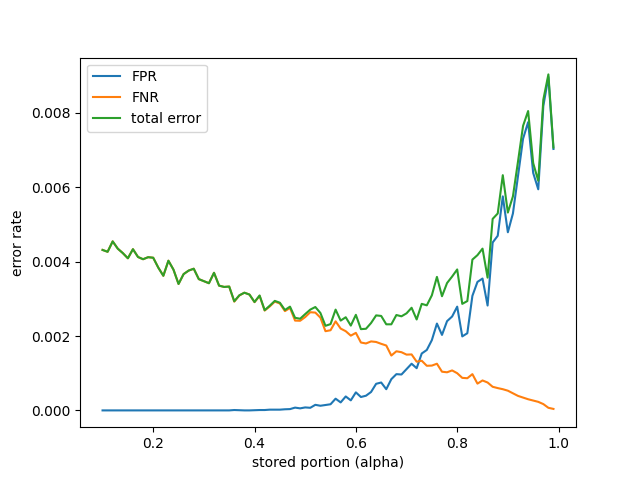
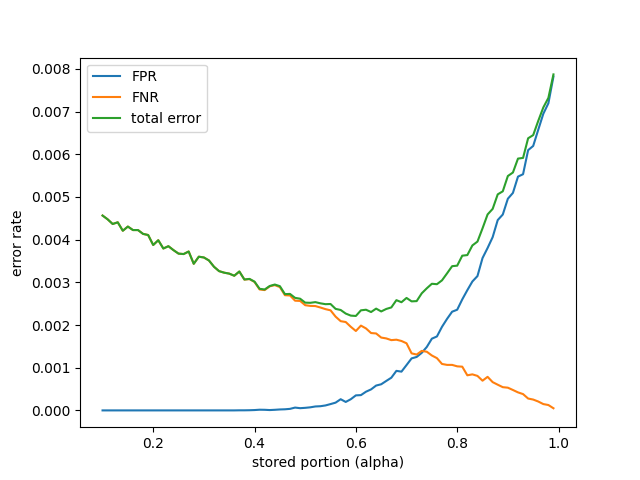
Initialized retouched filter and test_m

diff --git a/Partial filter.py b/Partial filter.py
@@ -6,10 +6,9 @@ import matplotlib.pyplot as plt
 
 import numpy as np
 
+
 # Generating hash functions via index.
 # See https://stackoverflow.com/questions/2255604/hash-functions-family-generator-in-python#:~:text=The%20universal%20hash%20family%20is,drawn%20randomly%20from%20set%20H%20.
-_memomask = {}
-
 
 def universal_hashing():
     def rand_prime():
@@ -17,17 +16,22 @@ def universal_hashing():
             p = random.randrange(2 ** 32, 2 ** 34, 2)
             if all(p % n != 0 for n in range(3, int((p ** 0.5) + 1), 2)):
                 return p
+
     m = 2 ** 32 - 1
     p = rand_prime()
     a = random.randint(0, p)
     if a % 2 == 0:
         a += 1
     b = random.randint(0, p)
+
     def h(x):
         return ((a * x + b) % p) % m
+
     return h
 
+
 # Doesn't work very well
+# _memomask = {}
 # def hash_function(n: int) -> Callable:
 #     mask = _memomask.get(n)
 #     if mask is None:
@@ -42,19 +46,32 @@ def universal_hashing():
 
 class FilterInterface():
     def __init__(self):
-        self.a = np.zeros(0)
-        self.n = 0
+        """
+        --- variables ---
+        n: number of elements actually stored.
+        m: size of the array
+        k: number of hash functions. Default is to calculate optimal k.
+        hashes: list of hash functions.
+        """
+        self.a = self.n = self.m = self.k = self.hashes = None
 
-    def arraylen(self):
-        return self.a.shape[0]
+    def optimal_k(self):
+        """
+        --- Input ---
+        self: has well-defined self.m and self.n values.
 
-    def setsize(self):
-        return self.n
-
-    def optimal_k(self, m, n):
-        if n == 0:
+        --- Output ---
+        k: optimal k value given by int(np.log(2) * self.m / self.n)
+        """
+        if self.n == 0:
             return 0
-        return int(np.log(2) * m / n)
+        return int(np.log(2) * self.m / self.n)
+
+    def __contains__(self, item: int) -> bool:
+        for hash in self.hashes:
+            if self.a[hash(item) % self.m] == 0:
+                return False
+        return True
 
 
 # Create a regular BF.
@@ -68,21 +85,17 @@ class BloomFilter(FilterInterface):
         """
         super().__init__()
         self.n = len(S)
+        self.m = m
         if k is None:
-            k = self.optimal_k(m, self.n)
+            self.k = self.optimal_k()
+        else:
+            self.k = k
 
         self.a = np.zeros(m)
-        hash_inds = np.random.randint(1, 1000, size=k, dtype=np.int32)
-        self.hashes = [universal_hashing() for i in hash_inds]
+        self.hashes = [universal_hashing() for i in range(self.k)]
         for item in S:
             for hash in self.hashes:
-                self.a[hash(item) % m] = 1
-
-    def __contains__(self, item: int) -> bool:
-        for hash in self.hashes:
-            if self.a[hash(item) % m] == 0:
-                return False
-        return True
+                self.a[hash(item) % m] += 1
 
 
 class PartialFilter(FilterInterface):
@@ -92,29 +105,68 @@ class PartialFilter(FilterInterface):
         S: array of integers.
         m: size of the array
         k: number of hash functions. Default is to calculate optimal k.
-        alpha:
+        alpha: portion of elements to actually store
         """
         super().__init__()
         self.n = int(len(S) * alpha)
+        self.m = m
         if k is None:
-            k = self.optimal_k(m, self.n)
+            self.k = self.optimal_k()
+        else:
+            self.k = k
 
         S_new = np.random.choice(S, self.n, replace=False)
         self.a = np.zeros(m)
-        hash_inds = np.random.randint(1, 1000, size=k, dtype=np.int32)
-        self.hashes = [universal_hashing() for i in hash_inds]
+        self.hashes = [universal_hashing() for i in range(self.k)]
         for item in S_new:
             for hash in self.hashes:
-                self.a[hash(item) % m] = 1
+                self.a[hash(item) % m] += 1
 
-    def __contains__(self, item: int) -> bool:
-        for hash in self.hashes:
-            if self.a[hash(item) % m] == 0:
-                return False
-        return True
+    @staticmethod
+    def calculate_optimal_beta(n, m, p):
+        """
+        Calculate optimal value of beta for given m,n,p, via the formula
+        --- Input ---
+        n: size of S.
+        m: length of array.
+        p: porportion of U that is in S.
+        """
+        return
 
 
-def avg_errors(n_trials: int, n_draws: int, U: int, S: np.ndarray, F: FilterInterface):
+class RetouchedFilter(FilterInterface):
+    def __init__(self, S, m, k, beta):
+        """
+        --- Input ---
+        S: array of integers.
+        m: size of the array
+        k: number of hash functions. Default is to calculate optimal k.
+        beta: portion of bits to reset
+        """
+        super().__init__()
+        self.n = len(S)
+        self.m = m
+        if k is None:
+            self.k = self.optimal_k()
+        else:
+            self.k = k
+
+        self.a = np.zeros(m)
+        self.hashes = [universal_hashing() for i in range(self.k)]
+        for item in S:
+            for hash in self.hashes:
+                self.a[hash(item) % m] += 1
+
+        # Retouching
+        nonzero_bits = [i for i, b in enumerate(self.a) if b != 0]
+        n_reset_bits = int(beta * len(nonzero_bits))
+        reset_bit_inds = np.random.choice(nonzero_bits, n_reset_bits, replace=False)
+        for i in reset_bit_inds:
+            self.a[i] = 0
+
+
+# Basic unit of testing
+def avg_errors(n_draws: int, U: int, S: np.ndarray, F: FilterInterface):
     """
     --- Input ---
     n_trials: number of Monte Carlo trials to run.
@@ -122,32 +174,30 @@ def avg_errors(n_trials: int, n_draws: int, U: int, S: np.ndarray, F: FilterInte
     U: universe is [1, U].
     S: the ground truth set.
 
-    --- Outputs ---
+    --- Output ---
     (FPR, FNR), where error rates are defined as number of errors divided by number of draws
     """
     np.random.seed(None)
-    FP_rates = []
-    FN_rates = []
-    for _ in range(n_trials):
-        FP_counter = 0
-        FN_counter = 0
-        draws = np.random.randint(1, U, size=n_draws)
-        for draw in draws:
-            if draw in F and draw not in S:
-                FP_counter += 1
-            elif draw not in F and draw in S:
-                FN_counter += 1
-        FP_rates.append(FP_counter / n_draws)
-        FN_rates.append(FN_counter / n_draws)
-    return np.mean(FP_rates), np.mean(FN_rates)
+    FP_counter = 0
+    FN_counter = 0
+    draws = np.random.randint(1, U, size=n_draws)
+    for draw in draws:
+        if draw in F and draw not in S:
+            FP_counter += 1
+        elif draw not in F and draw in S:
+            FN_counter += 1
+    FP_rate = FP_counter / n_draws
+    FN_rate = FN_counter / n_draws
+    return FP_rate, FN_rate
 
 
+# Testing different choices of alpha for paritial filter.
 def test_alpha(alpha_range: np.ndarray,
                m: int,
                n_trials: int,
                n_draws: int,
                U: int,
-               S: np.ndarray):
+               S_size: int):
     """
     --- Input ---
     alpha_range: the range of alphas to test.
@@ -155,33 +205,62 @@ def test_alpha(alpha_range: np.ndarray,
     **other_args: see description for avg_errors.
 
     --- Output ---
-    (FPRs, FNRs): ndarrays of the corresponding error rates of given alpha.
+    (FPR, FNR): ndarrays of the corresponding error rates of given alpha.
     """
     N = len(alpha_range)
-    FPRs = np.zeros(N)
-    FNRs = np.zeros(N)
+    FPR = np.zeros((N, n_trials))
+    FNR = np.zeros((N, n_trials))
+    rng = np.random.default_rng()
 
-    for i, alpha in enumerate(alpha_range):
-        F = PartialFilter(S, m, k=None, alpha=alpha)
-        FPRs[i], FNRs[i] = avg_errors(n_trials, n_draws, U, S, F)
+    for trial in range(n_trials):
+        S = rng.choice(U, size=S_size, replace=False)
+        for i, alpha in enumerate(alpha_range):
+            F = PartialFilter(S, m, k=None, alpha=alpha)
+            FPR[i, trial], FNR[i, trial] = avg_errors(n_draws, U, S, F)
 
-    plt.plot(alpha_range, FPRs, label='FPR')
-    plt.plot(alpha_range, FNRs, label='FNR')
-    plt.plot(alpha_range, FPRs + FNRs, label='total error')
-    plt.xlabel('stored portion (alpha)')
-    plt.ylabel('error rate')
-    plt.legend()
-    plt.show()
+    FPR = np.mean(FPR, axis=1)
+    FNR = np.mean(FNR, axis=1)
+    # plt.plot(alpha_range, FPR, label='FPR')
+    # plt.plot(alpha_range, FNR, label='FNR')
+    # plt.plot(alpha_range, FPR + FNR, label='total error')
+    # plt.xlabel('stored portion (alpha)')
+    # plt.ylabel('error rate')
+    # plt.legend()
+    # plt.show()
 
-    return FPRs, FNRs
+    return FPR, FNR
 
 
-U = 2000000
-S = np.array(range(1, 10001))
-m = 100000
-test_alpha(alpha_range=np.arange(0.1, 1, 0.01),
-           m=m,
-           n_trials=20,
-           n_draws=10000,
-           U=U,
-           S=S)
+def test_m(multiplier_range=range(5, 25, 5), n=10000):
+    U = 2000000
+
+    fig, (ax1, ax2, ax3) = plt.subplots(1, 3, figsize=(14, 4))
+    fig.suptitle('testing different m size')
+    ax1.set_xlabel('proportion stored (alpha)')
+    ax1.set_ylabel('False Positives')
+
+    ax2.set_xlabel('proportion stored (alpha)')
+    ax2.set_ylabel('False Negatives')
+
+    ax3.set_xlabel('proportion stored (alpha)')
+    ax3.set_ylabel('Total error')
+
+    for multiplier in multiplier_range:
+        alpha_range = np.linspace(0.1, 1, 100)
+        FPR, FNR = test_alpha(alpha_range=alpha_range,
+                              m=multiplier * n,
+                              n_trials=50,
+                              n_draws=10000,
+                              U=U,
+                              S_size=10000)
+
+        ax1.plot(alpha_range, FPR, label='m={}n'.format(multiplier))
+        ax2.plot(alpha_range, FNR, label='m={}n'.format(multiplier))
+        ax3.plot(alpha_range, FPR + FNR, label='m={}n'.format(multiplier))
+
+    ax3.legend()
+    fig.tight_layout()
+    plt.savefig('test_m')
+
+
+test_m()

diff --git a/Optimality.py b/Optimality.py
@@ -1,6 +1,7 @@
 # This for testing the optimality of heuristic. 
-import numpy as np
 import gurobipy as gp
+import numpy as np
+
 
 def generate_deltaG(k: int):
     randarr = np.random.choice(500, size=k)
@@ -34,14 +35,15 @@ def test_optimality(P1, R, k):
     m.setObjective(gp.quicksum([deltaG[i] * log_var[i] for i in range(k)]))
 
     # Error rate constraint
-    m.addConstr(P1 * gp.quicksum([(1-ind_var[i]) * deltaG[i] for i in range(k)]) 
-                    + P2 * gp.quicksum([ind_var[i] * deltaH[i] * fpr_var[i] for i in range(k)])
-                    <= R
-            , name="error rate constraint")
-    
+    m.addConstr(P1 * gp.quicksum([(1 - ind_var[i]) * deltaG[i] for i in range(k)])
+                + P2 * gp.quicksum([ind_var[i] * deltaH[i] * fpr_var[i] for i in range(k)])
+                <= R
+                , name="error rate constraint")
+
     m.Params.NonConvex = 2
     m.optimize()
     print('A')
     print(m.objVal)
+
 
 test_optimality(0.2, 0.05, 10)
